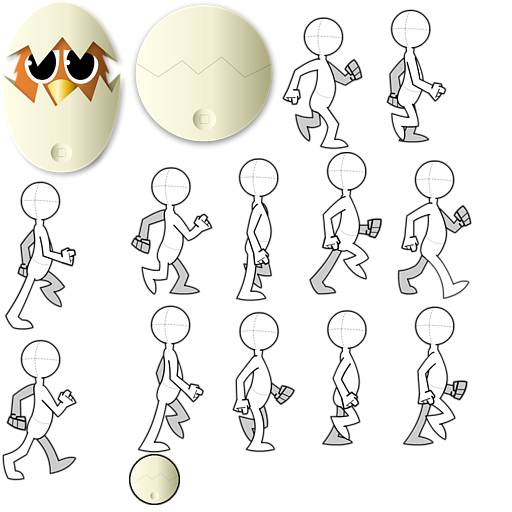
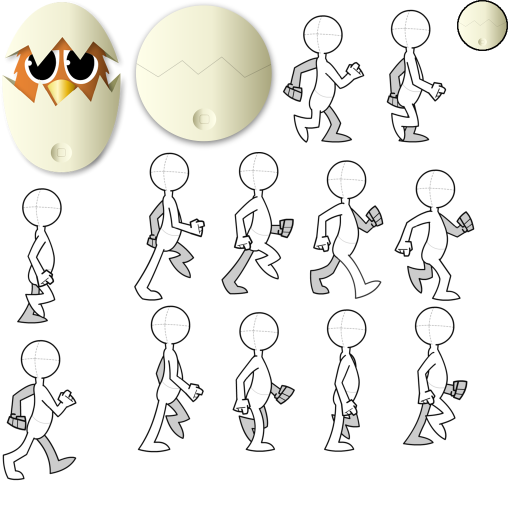
closes #375 (simpler movie creation method)

diff --git a/sparrow/src/Classes/SPTextureAtlas.m b/sparrow/src/Classes/SPTextureAtlas.m
@@ -111,6 +111,25 @@
     return [SPSubTexture textureWithRegion:region ofTexture:mAtlasTexture];    
 }
 
+- (NSArray *)texturesStartingWith:(NSString *)name
+{
+    NSMutableArray *textureNames = [[NSMutableArray alloc] init];
+    
+    for (NSString *textureName in mTextureRegions)
+        if ([textureName rangeOfString:name].location == 0)
+            [textureNames addObject:textureName];
+    
+    // note: when switching to iOS 4, 'localizedStandardCompare:' would be preferable    
+    [textureNames sortUsingSelector:@selector(localizedCaseInsensitiveCompare:)];
+    
+    NSMutableArray *textures = [NSMutableArray arrayWithCapacity:textureNames.count];
+    for (NSString *textureName in textureNames)
+        [textures addObject:[self textureByName:textureName]];
+    
+    [textureNames release];
+    return textures;
+}
+
 + (SPTextureAtlas*)atlasWithContentsOfFile:(NSString*)path
 {
     return [[[SPTextureAtlas alloc] initWithContentsOfFile:path] autorelease];

diff --git a/samples/demo/src/Classes/MovieScene.m b/samples/demo/src/Classes/MovieScene.m
@@ -27,12 +27,7 @@
         SPTextureAtlas *atlas = [SPTextureAtlas atlasWithContentsOfFile:@"atlas.xml"];
         
         // add frames to movie
-        mMovie = [[SPMovieClip alloc] initWithFrame:[atlas textureByName:@"walk_0"] fps:12];
-        for (int i=1; i<=11; ++i)
-        {
-            NSString *frame = [NSString stringWithFormat:@"walk_%d", i];
-            [mMovie addFrame:[atlas textureByName:frame]];
-        }
+        mMovie = [[SPMovieClip alloc] initWithFrames:[atlas texturesStartingWith:@"walk_"] fps:12];
         
         // add sounds
         SPSound *stepSound = [[SPSound alloc] initWithContentsOfFile:@"step.caf"];        

diff --git a/sparrow/src/Classes/SPMovieClip.m b/sparrow/src/Classes/SPMovieClip.m
@@ -50,6 +50,20 @@
     return self;
 }
 
+- (id)initWithFrames:(NSArray *)textures fps:(float)fps
+{
+    if (textures.count == 0)
+        [NSException raise:SP_EXC_INVALID_OPERATION format:@"empty texture array"];
+        
+    [self initWithFrame:[textures objectAtIndex:0] fps:fps];
+    
+    if (textures.count > 1)
+        for (int i=1; i<textures.count; ++i)
+            [self addFrame:[textures objectAtIndex:i]];
+    
+    return self;
+}
+
 - (id)initWithTexture:(SPTexture *)texture
 {
     return [self initWithFrame:texture fps:10];

diff --git a/sparrow/src/Classes/SPTextureAtlas.h b/sparrow/src/Classes/SPTextureAtlas.h
@@ -26,9 +26,10 @@
 
 @property (nonatomic, readonly) int count;
 
-- (id)initWithContentsOfFile:(NSString*)path;
-- (SPTexture*)textureByName:(NSString*)name;
+- (id)initWithContentsOfFile:(NSString *)path;
+- (SPTexture *)textureByName:(NSString *)name;
+- (NSArray *)texturesStartingWith:(NSString *)name;
 
-+ (SPTextureAtlas*)atlasWithContentsOfFile:(NSString*)path;
++ (SPTextureAtlas *)atlasWithContentsOfFile:(NSString *)path;
 
 @end

diff --git a/sparrow/src/Classes/SPMovieClip.h b/sparrow/src/Classes/SPMovieClip.h
@@ -34,6 +34,7 @@
 }
 
 - (id)initWithFrame:(SPTexture *)texture fps:(float)fps;
+- (id)initWithFrames:(NSArray *)textures fps:(float)fps;
 
 - (int)addFrame:(SPTexture *)texture;
 - (int)addFrame:(SPTexture *)texture withDuration:(double)duration;
